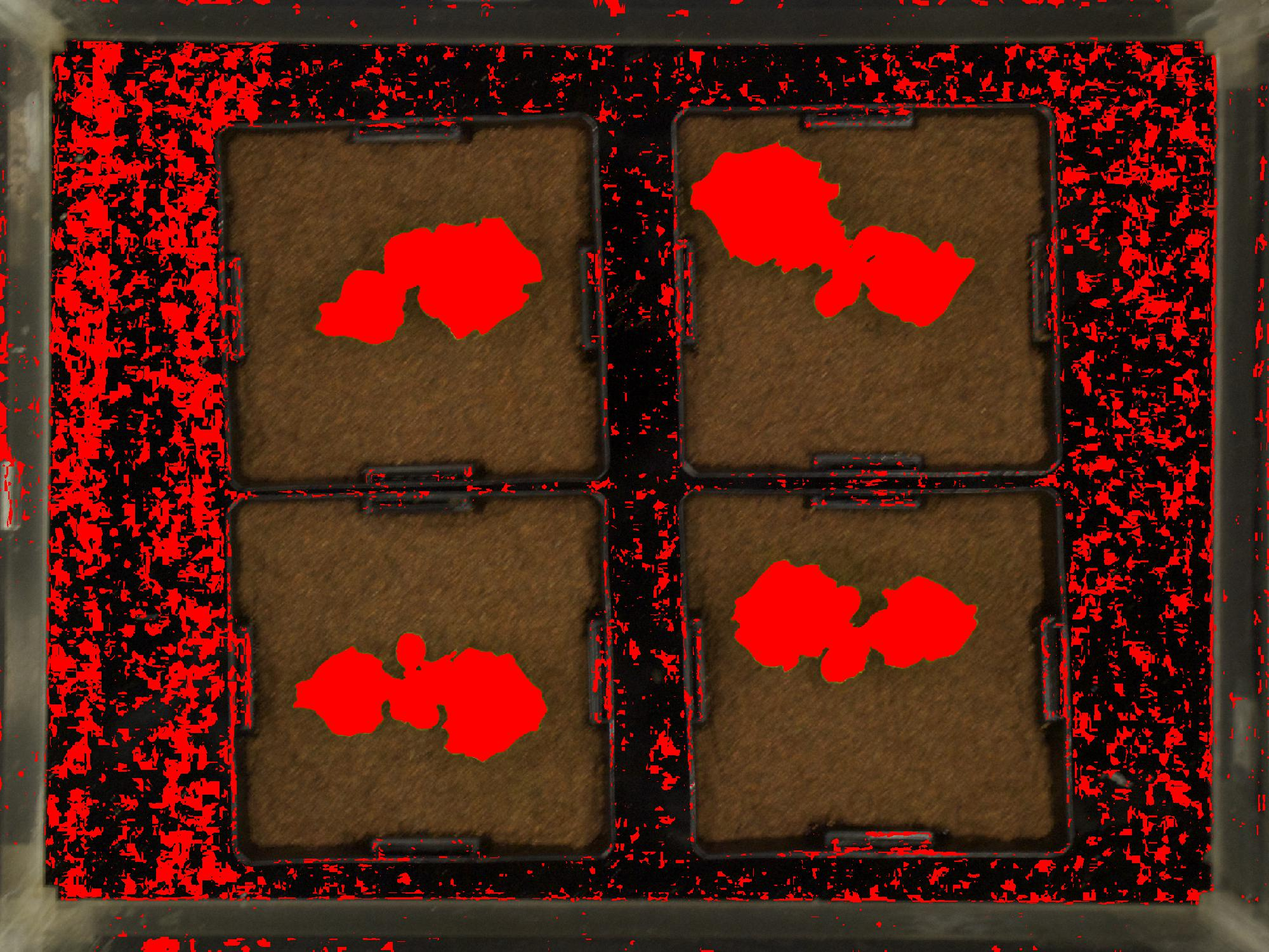
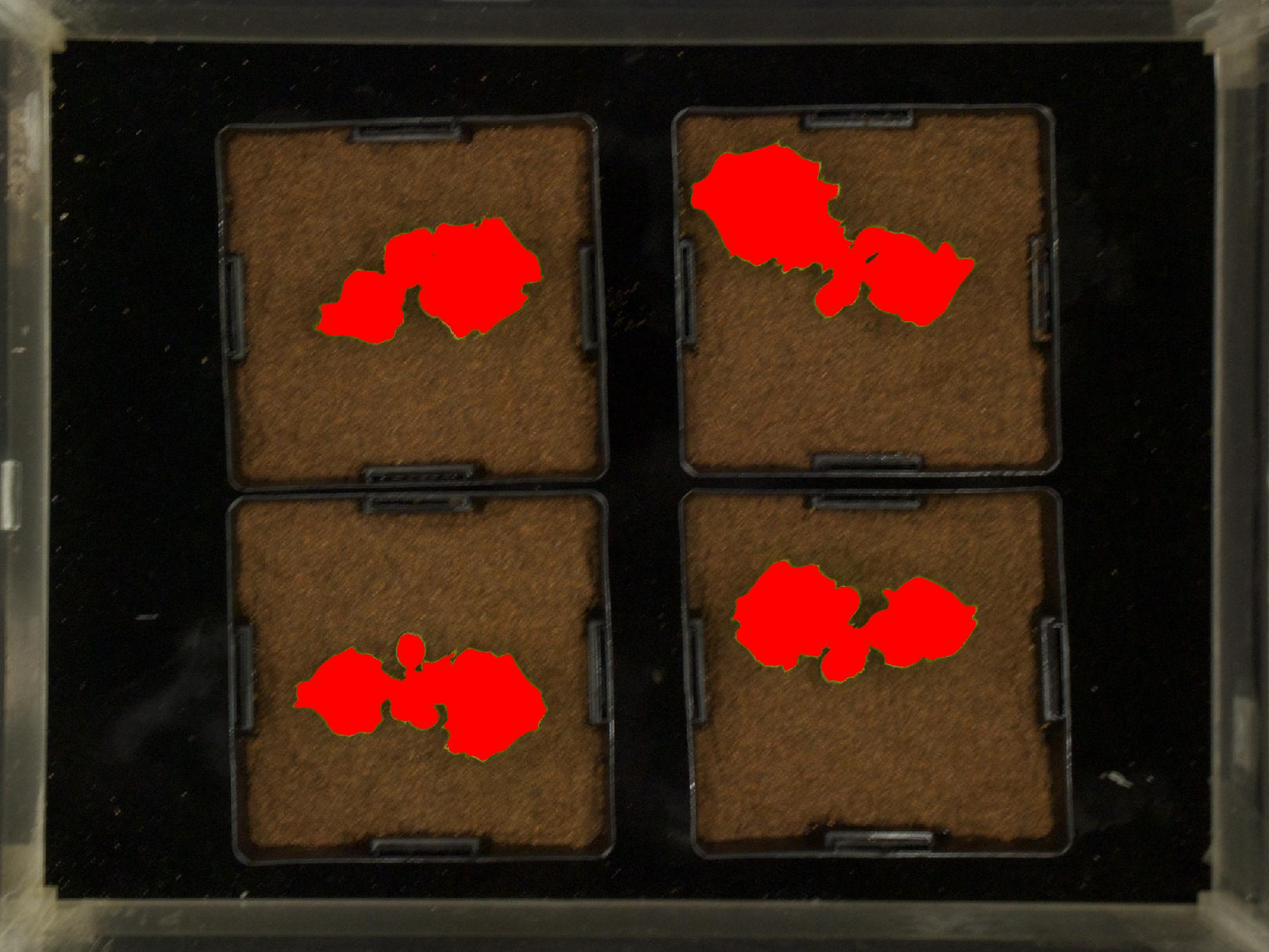
improved analysis performance with fuzz factor

diff --git a/lib/gpix.py b/lib/gpix.py
@@ -14,7 +14,7 @@ class ImageSummary:
     # write sumData to CSV
     # location sets the save location for the csv.
     # By default it uses the parent directory
-    def writeCsv( self, location = ".." ): 
+    def writeCsv( self, location = "." ): 
         os.chdir(location)
 
         print('Writing CSV...')
@@ -52,22 +52,26 @@ def countPix( folderLoc, save = False ):
     
     return(imgSum) 
 
-def _analyzeImage_( fileName , save = False ):
+def _analyzeImage_( fileName , save = False, greenFuzz = 10):
     start = time.time() # start timer
 
     # open image, resize, convert to RGB
     # we resize every image to the same size to remove zoom/crop effects on image size
     im = Image.open(fileName).resize((2000, 1500)).convert('RGB') # total pixels = 3,000,000
-    # convert to numpy array for faster analysis
-    arr = np.array(im)
+    # get bands, convert to numpy arrays for faster analysis
+    rBand = np.array(im.getdata(band=0)) + greenFuzz
+    gBand = np.array(im.getdata(band=1))
+    bBand = np.array(im.getdata(band=2)) + greenFuzz
 
     green = 0                                               # initialize green pixel counter
-    for x in range(im.width):                               # loop over all pixels in image
-        for y in range(im.height):
-            p = arr[y][x]                                   # get pixel at (x,y) location
-            if(_isGreen_(p)) :                              # if the pixel is green,
-                green += 1                                  # count it as a green pixel
-                if(save): im.putpixel((x,y), (255, 0, 0))   # replace the pixel with a red one, indicating it was detected as green
+    for i in range(im.width*im.height):                     # get pixel at (x,y) location
+        p = [ rBand[i], gBand[i], bBand[i] ]
+        if(_isGreen_(p)):                                   # if the pixel is green,
+            green += 1                                      # count it as a green pixel
+            if(save): 
+                x = i % im.width
+                y = int(i / im.width)
+                im.putpixel((x,y), (255, 0, 0))   # replace the pixel with a red one, indicating it was detected as green
 
     imgName = os.path.splitext(fileName)[0]
     # save image with detected pixels next to original image

diff --git a/main.py b/main.py
@@ -24,7 +24,7 @@ def finished(success):   # show the program has finished
     app.queueFunction(app.setLabelBg, 'status', 'green')
 
 def runAnalysis(filePath):
-    gpix.countPix(filePath).writeCsv() # run the analysis and save the summary CSV
+    gpix.countPix(filePath, True).writeCsv() # run the analysis and save the summary CSV
     print('Done!')
     pass
 
